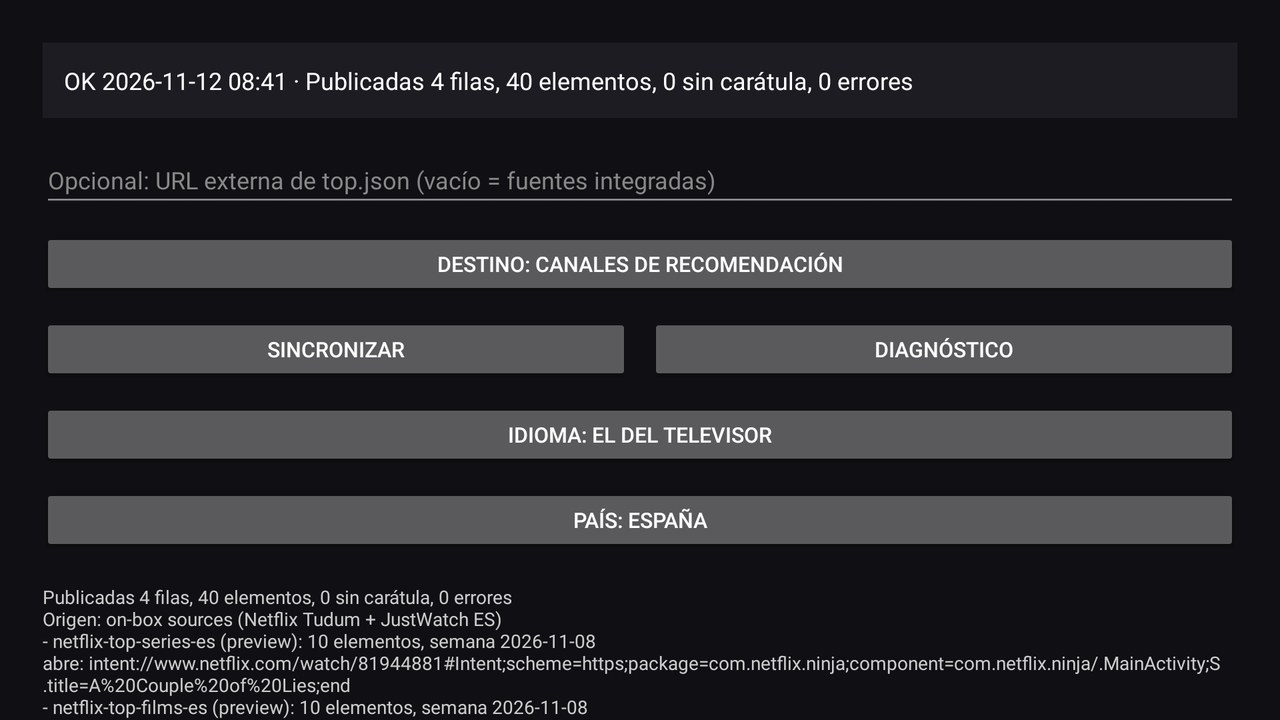
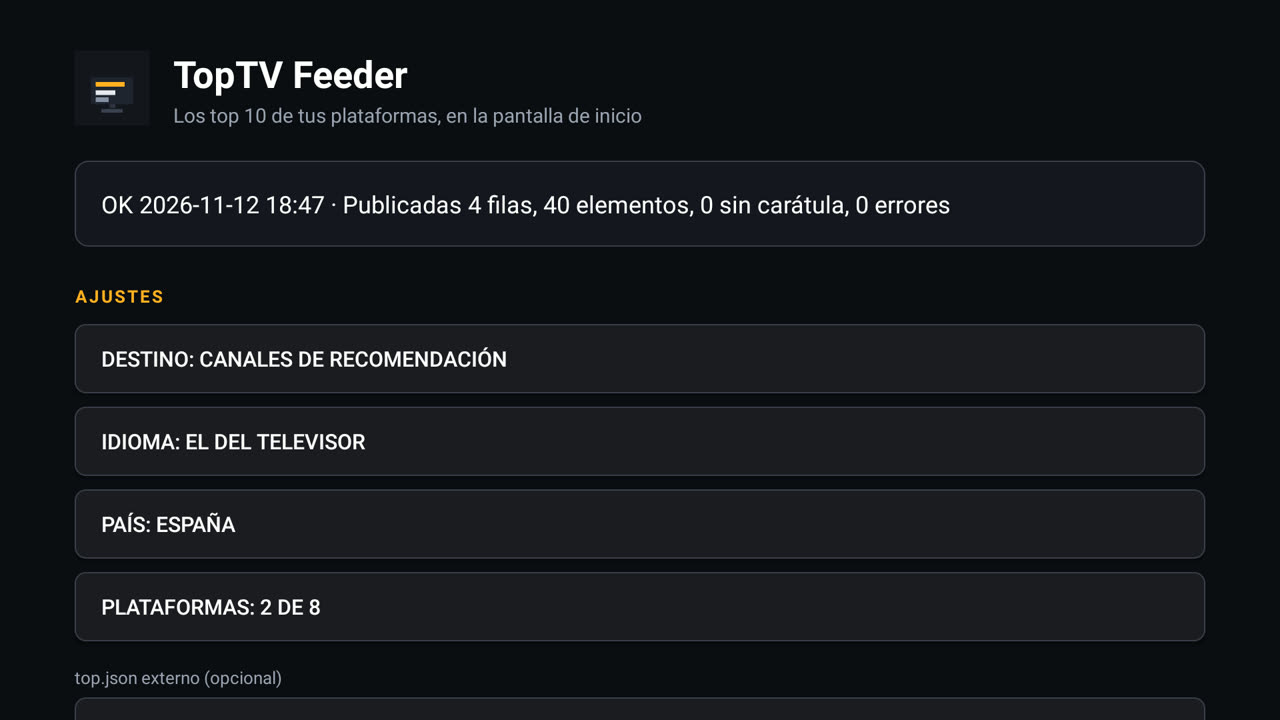
fix: separate the platform label from its note and refresh the screenshots
The note lost its leading space when Android trimmed the resource, so the dialog
read "Apple TV (no instalada)" only after the space was added in code.

Front pages carry fresh captures from a real box: the screen after a sync and the
platform picker.

diff --git a/app/src/com/alberto/tvfeeder/MainActivity.java b/app/src/com/alberto/tvfeeder/MainActivity.java
@@ -247,7 +247,7 @@ public final class MainActivity extends Activity {
         for (int i = 0; i < count; i++) {
             boolean here = Platforms.installed(this, i);
             labels[i] = here ? Platforms.label(i)
-                    : Platforms.label(i) + getString(R.string.platforms_missing);
+                    : Platforms.label(i) + " " + getString(R.string.platforms_missing);
             checked[i] = saved.contains(Platforms.key(i));
         }
         new AlertDialog.Builder(this)

diff --git a/README.fr.md b/README.fr.md
@@ -86,9 +86,6 @@ la source Prime : [feeder.fr.md](docs/feeder.fr.md) détaille ce qui a été vé
 
 *Une synchronisation sur le boîtier : quatre rangées, quarante cartes, le pays dans le titre de chaque rangée, et l'écran dans la langue du téléviseur.*
 
-*Seize lignes et 160 cartes sur un téléviseur qui n'a aucune des applications ajoutées : chaque
-carte ouvre la page web de la plateforme dans le navigateur, ou la page de l'application dans la boutique.*
-
 ## Prérequis
 
 | Élément | Détail |
@@ -162,6 +159,10 @@ quatre lignes et rien d'autre. Cochez un autre service une fois son application 
 ses lignes apparaîtront à la synchronisation suivante ; les lignes d'un service décoché sont
 supprimées comme obsolètes. Un service coché dont l'application manque est affiché
 *(non installée)* et ne publie rien, faute d'application à ouvrir.
+
+![Le sélecteur de plateformes](docs/img/app-platforms.jpg)
+
+*Plateformes : huit services, les deux installés déjà cochés, les autres indiqués comme non installés.*
 
 ## Pays
 

diff --git a/README.de.md b/README.de.md
@@ -84,9 +84,6 @@ Prime-Quelle: [feeder.de.md](docs/feeder.de.md) hält fest, was geprüft wurde.
 
 *Eine Synchronisierung auf der Box: vier Reihen, vierzig Karten, das Land in jedem Zeilentitel, und der Bildschirm in der Sprache des Fernsehers.*
 
-*Sechzehn Zeilen und 160 Karten auf einem Fernseher ohne eine dieser Apps: Jede Karte öffnet
-die Webseite der Plattform im Browser oder die Store-Seite der App.*
-
 ## Voraussetzungen
 
 | Punkt | Detail |
@@ -161,6 +158,10 @@ deren vier Zeilen und sonst nichts. Haken Sie einen weiteren Dienst an, sobald s
 ist, erscheinen seine Zeilen beim nächsten Sync; Zeilen eines abgewählten Dienstes werden als
 veraltet gelöscht. Ein angehakter Dienst ohne App wird als *(nicht installiert)* angezeigt und
 veröffentlicht nichts, weil es keine App zu öffnen gäbe.
+
+![Die Plattformauswahl](docs/img/app-platforms.jpg)
+
+*Plattformen: acht Dienste, die beiden installierten bereits angehakt, die übrigen als nicht installiert gekennzeichnet.*
 
 ## Land
 

diff --git a/README.es.md b/README.es.md
@@ -85,9 +85,6 @@ que se comprobó.
 
 *Una sincronización en la caja: cuatro filas, cuarenta tarjetas, el país en el título de cada fila y la pantalla en el idioma del televisor.*
 
-*Dieciséis filas y 160 tarjetas en un televisor que no tiene ninguna de las apps añadidas:
-cada tarjeta abre la página web de la plataforma en el navegador o la página de la app en la tienda.*
-
 ## Requisitos
 
 | Elemento | Detalle |
@@ -160,6 +157,10 @@ Marca otro servicio cuando su app esté aquí y sus filas aparecerán en la sigu
 sincronización; las filas del servicio que desmarques se borran por obsoletas. Un servicio
 marcado cuya app no está se muestra como *(no instalada)* y no publica nada, porque no habría
 app que abrir.
+
+![El selector de plataformas](docs/img/app-platforms.jpg)
+
+*Plataformas: ocho servicios, los dos instalados ya marcados y el resto indicado como no instalado.*
 
 ## País
 

diff --git a/README.md b/README.md
@@ -80,9 +80,6 @@ records what was checked.
 
 *One sync on the box: four rows, forty cards, the country in every row title, and the screen in the TV's own language.*
 
-*Sixteen rows and 160 cards on a TV that has none of the extra platform apps: each card opens
-the platform's web page in the browser, or the app's store page.*
-
 ## Requirements
 
 | Item | Detail |
@@ -151,6 +148,10 @@ uses Netflix and Prime Video gets exactly their four rows and nothing else. Tick
 service once its app is here and its rows appear on the next sync; rows left by a service you
 untick are deleted as stale. A ticked service whose app is missing is shown as
 *(not installed)* and publishes nothing, because there would be no app to open.
+
+![The platform picker](docs/img/app-platforms.jpg)
+
+*Platforms: eight services, the two installed ones already ticked, the rest marked as not installed.*
 
 ## Country
 
